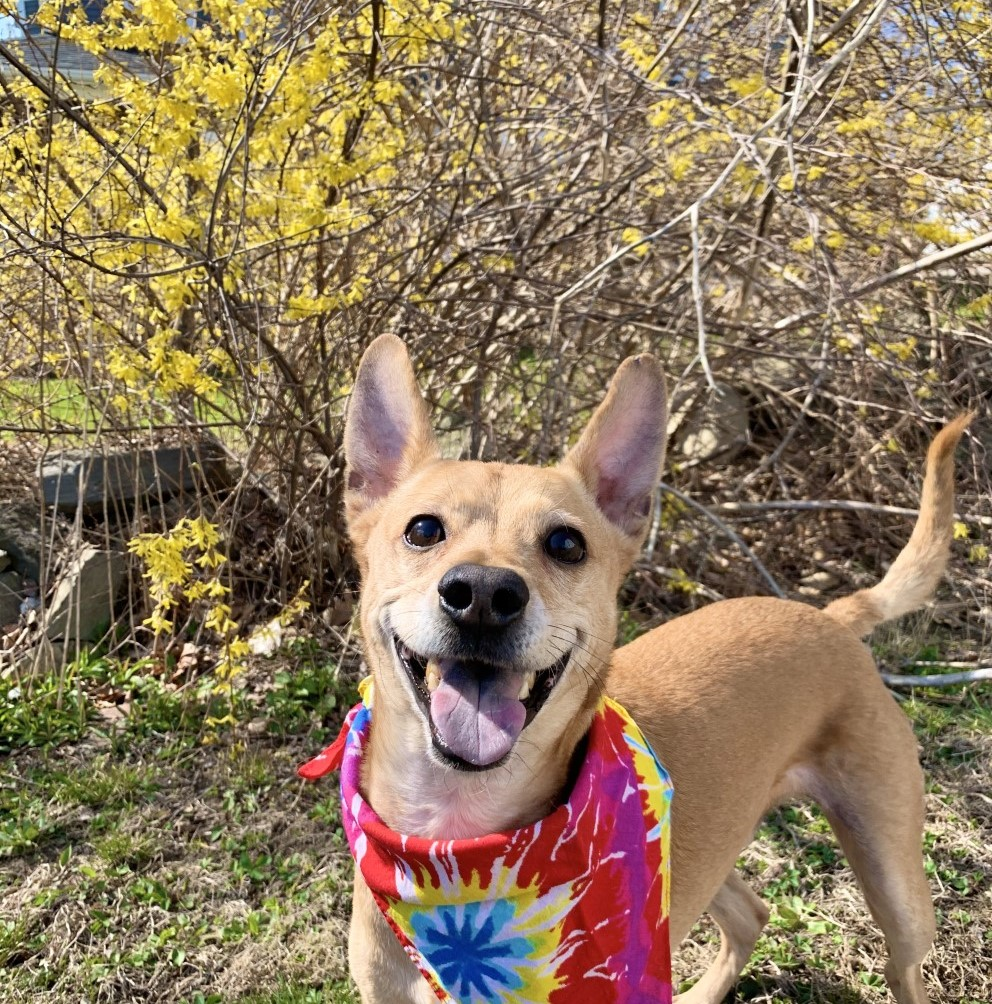
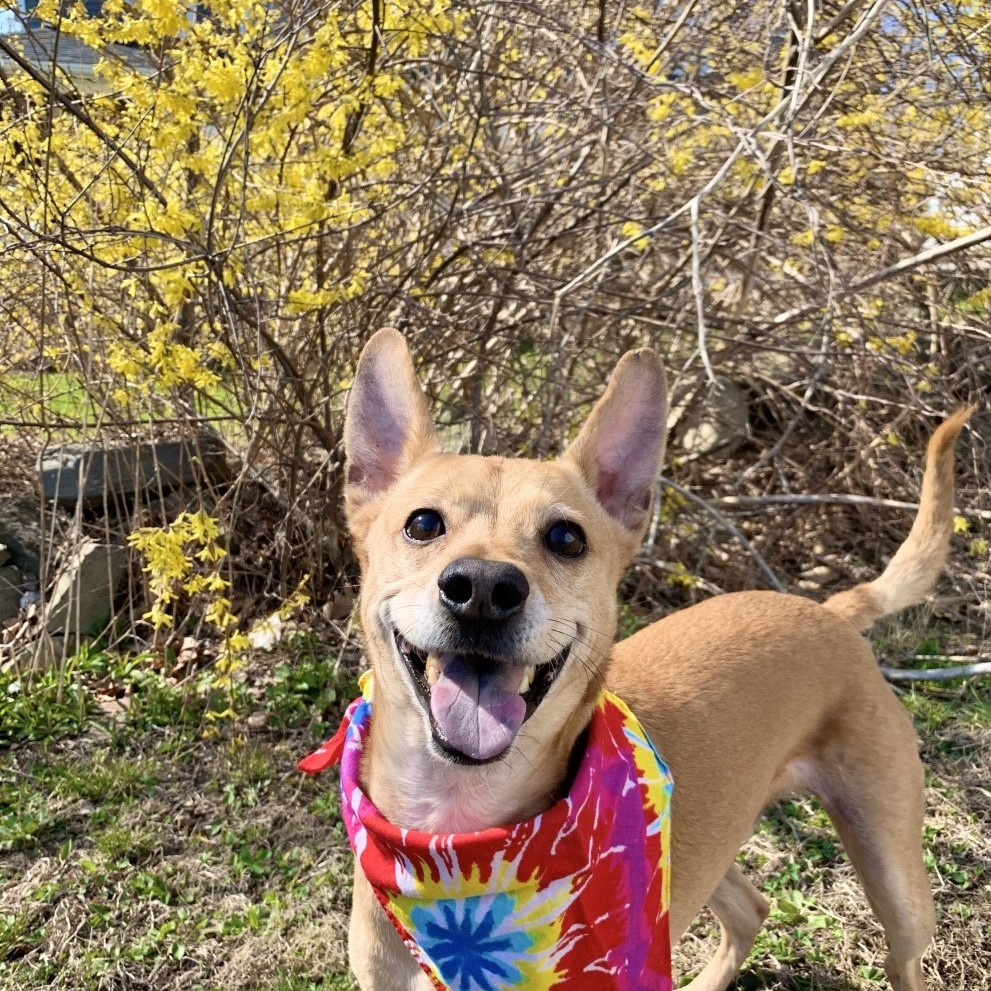
fixed splide image overlap bug

diff --git a/src/Components/ProjectItem/ProjectItem.js b/src/Components/ProjectItem/ProjectItem.js
@@ -4,6 +4,7 @@ import ProjectSlider from '../ProjectSlider/ProjectSlider';
 import Fade from 'react-reveal/Fade';
 
 class ProjectItem extends React.Component {
+
   renderTech(tech) {
     if (tech)
     return tech.map((el, idx) => {
@@ -18,27 +19,28 @@ class ProjectItem extends React.Component {
     const linksClassName = id % 2 === 1 ? 'links rev-links' : 'links';
 
       return (
-        <Fade duration={2000}>
         <div className='project-holder'>
         <div className={projectClassName}>
       
         <div className='v item'>
-        <h2>{title}</h2>
+        <Fade duration={2000}><h2>{title}</h2></Fade>
         <ProjectSlider id={id} title={title} images={images} />
         </div>
         
        
+        <Fade duration={2000}>
         <div className='item project-desc'>
         <p>{description}</p>
         <h3>Tech {':'}</h3>
         <ul>{this.renderTech(tech)}</ul>
-        </div></div>
+        </div></Fade>
+        </div>
 
         <div className={linksClassName}>
         <a href={liveLink} target='_blank' rel="noreferrer">Live Link</a>{repo && ' | '}
         {repo && <a href={repo} target='_blank' rel="noreferrer">Repo</a>}
         </div></div>
-        </Fade>
+        
       );
     }
 }

diff --git a/src/Components/ProjectSlider/ProjectSlider.js b/src/Components/ProjectSlider/ProjectSlider.js
@@ -5,6 +5,12 @@ import '@splidejs/splide/dist/css/themes/splide-default.min.css';
 
 class ProjectSlider extends React.Component {
 
+  state = {mounted: false}
+
+  componentDidMount() {
+    this.setState({mounted:true})
+  }
+
   renderSlides() {
     const {images, title} = this.props;
     return images.map((el, idx) => {
@@ -19,20 +25,18 @@ class ProjectSlider extends React.Component {
     const autoPlay = this.props.id === 0;
       return (
         <div className='project-slider'>
-        <Splide options={{
-          perPage: 1,
-          perMove: 1,
-          cover: true,
-          width: '100%',
-          height: '50%',
-          autoplay: autoPlay,
-          interval: 4000,
-          speed: 600,
-          rewind : true
-        }}>
-          {slides}
-        </Splide>
-      </div>
+       <Splide options={{
+         perPage: 1,
+         perMove: 1,
+         heightRatio: 0.5,
+         autoplay: autoPlay,
+         interval: 4000,
+         speed: 600,
+         rewind : true
+       }}>
+         {this.state.mounted && slides}
+       </Splide>
+     </div>
       );
     }
 }

diff --git a/src/Components/ProjectSlider/ProjectSlider.css b/src/Components/ProjectSlider/ProjectSlider.css
@@ -5,6 +5,3 @@
     margin: 5px auto;
 }
 
-.project-slider img {
-    width: auto;
-}
